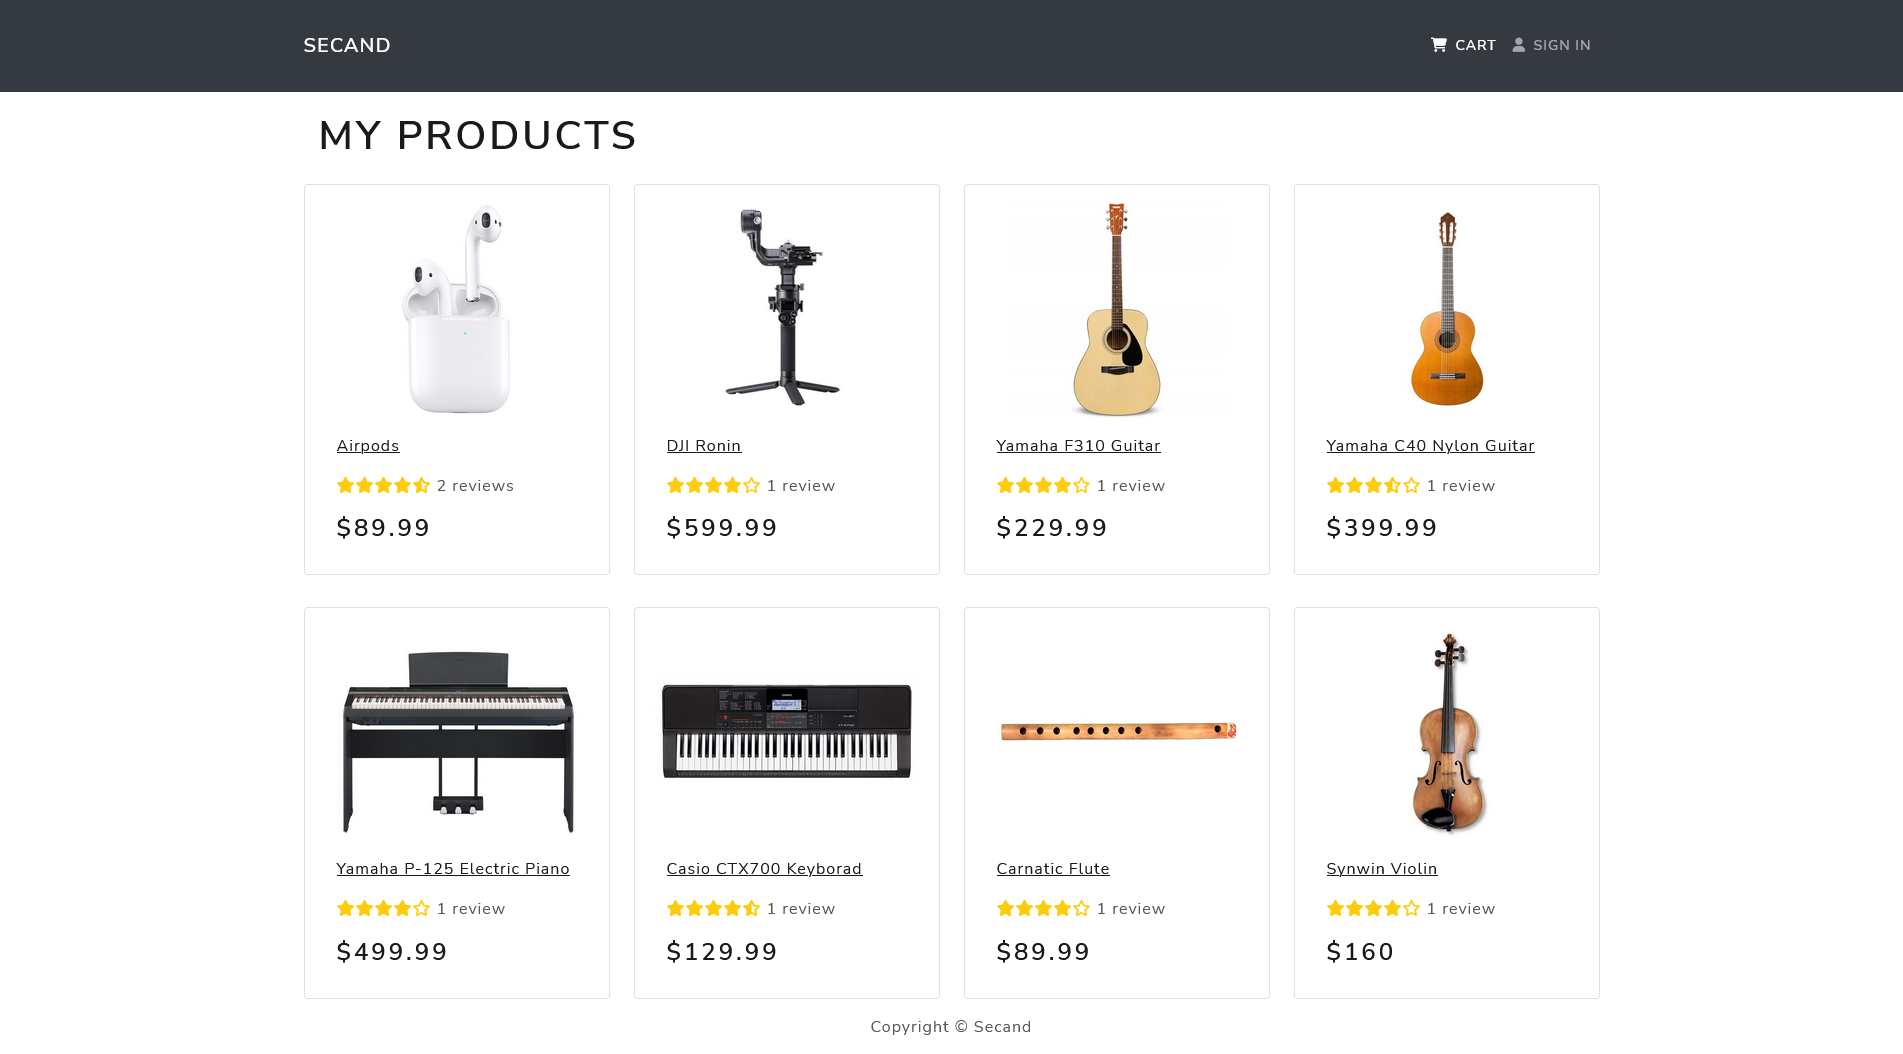
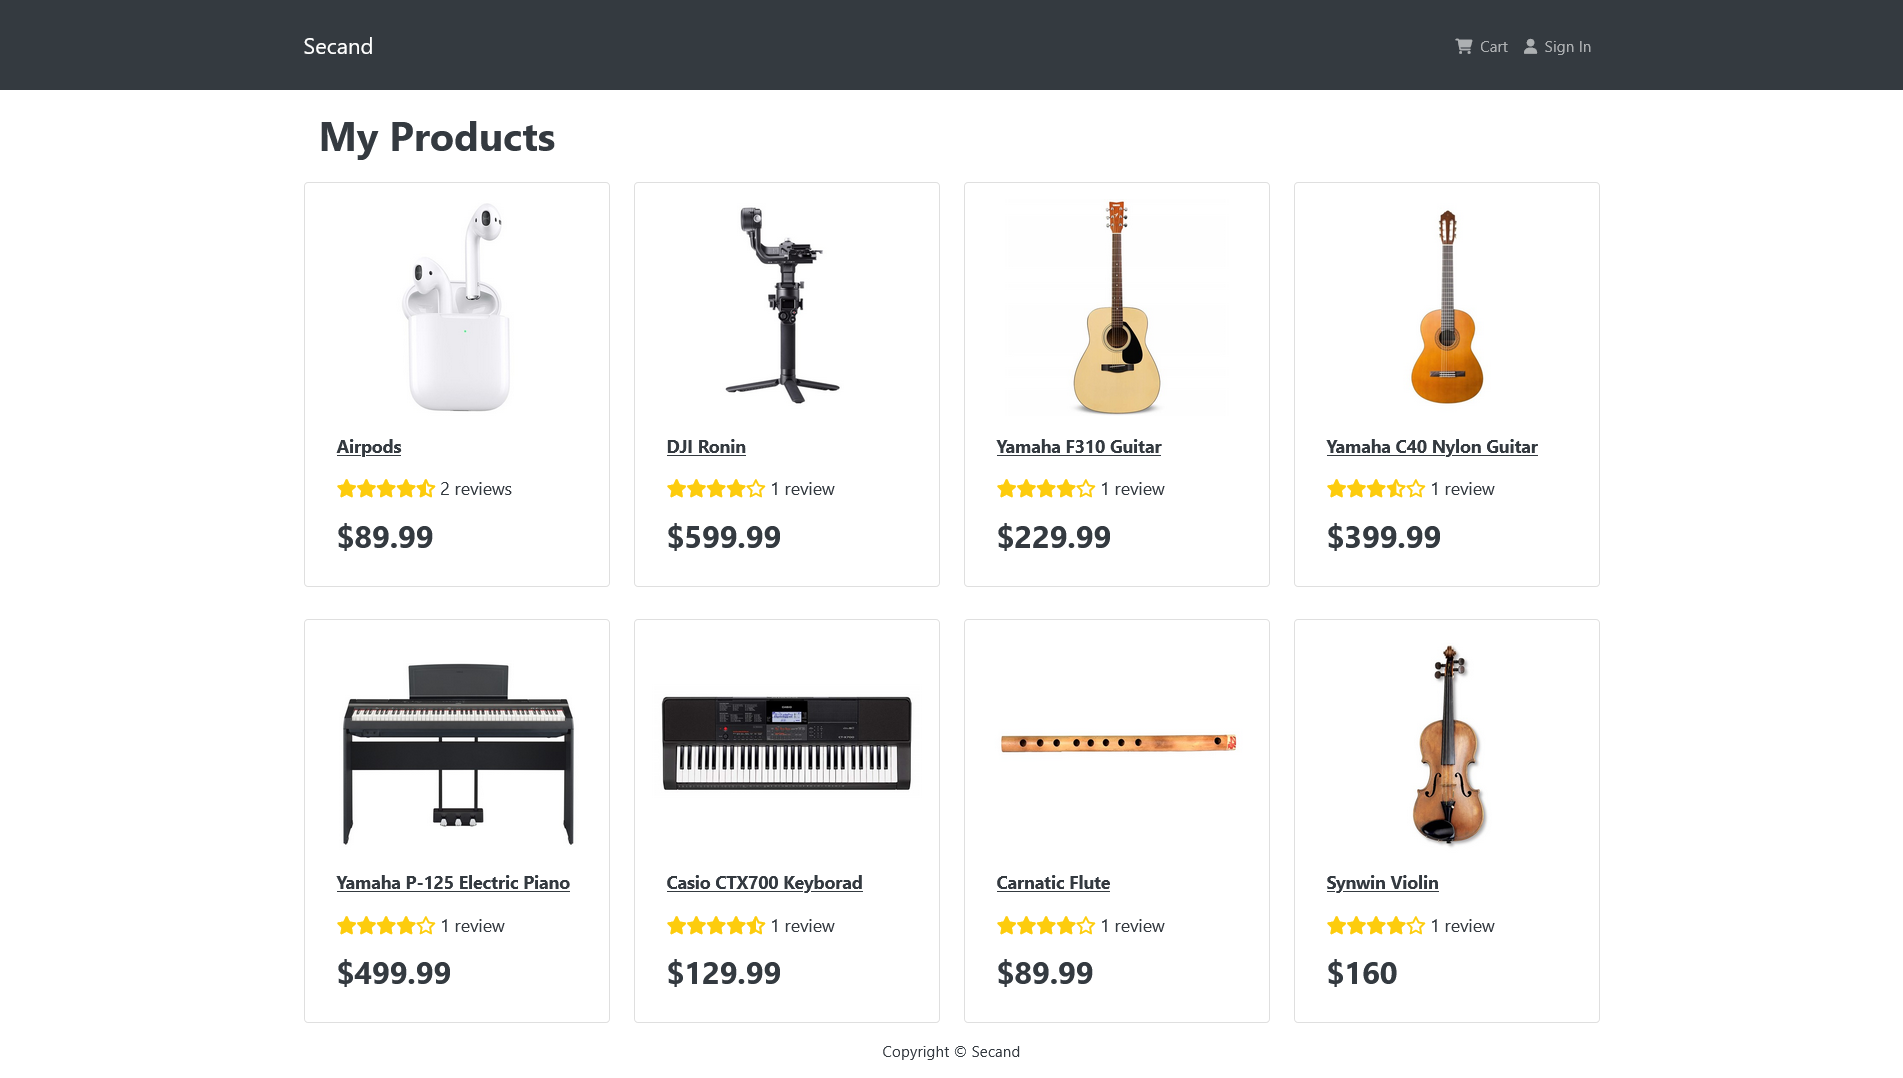
Minor UI changes

diff --git a/frontend-files/src/screens/ProductScreen.js b/frontend-files/src/screens/ProductScreen.js
@@ -52,7 +52,7 @@ const ProductScreen = () => {
                             </Row>
                         </ListGroupItem>
                         <ListGroupItem>
-                            <Button className='btn-block' type='button' disabled={product.countInStock === 0}>Add To Cart</Button>
+                            <Button className='btn-block btn-dark' type='button' disabled={product.countInStock === 0}>Add To Cart</Button>
                         </ListGroupItem>
                     </ListGroup>
                 </Card>

diff --git a/frontend-files/src/components/Header.js b/frontend-files/src/components/Header.js
@@ -5,7 +5,7 @@ import { Navbar, Nav, Container } from 'react-bootstrap'
 const Header = () => {
   return (
     <header>
-      <Navbar bg="info" variant="dark" expand="lg" className='py-3'>
+      <Navbar variant='dark' expand="lg" className='py-4 navbar'>
         <Container>
           <LinkContainer to='/'>
             <Navbar.Brand>Secand</Navbar.Brand>

diff --git a/frontend-files/src/components/Rating.js b/frontend-files/src/components/Rating.js
@@ -65,7 +65,7 @@ const Rating = ({ rating, numReviews, color }) => {
 }
 
 Rating.defaultProps = {
-    color: '#FDCC0D'
+    color: '#FF9529'
 }
 
 

diff --git a/frontend-files/src/index.css b/frontend-files/src/index.css
@@ -15,3 +15,7 @@
 .footer {
     margin-bottom: 15px;
 }
+
+.navbar {
+    background-color: #343a40;
+}

diff --git a/README.md b/README.md
@@ -2,4 +2,4 @@
 
 ![screenshot](./screenshots/screenshot.png)
 
-## E-commerce platfrom built using the MERN stack, with features such as shopping cart, product search and checkout.
+E-commerce platfrom built using the MERN stack, with features such as shopping cart, product search and checkout.
